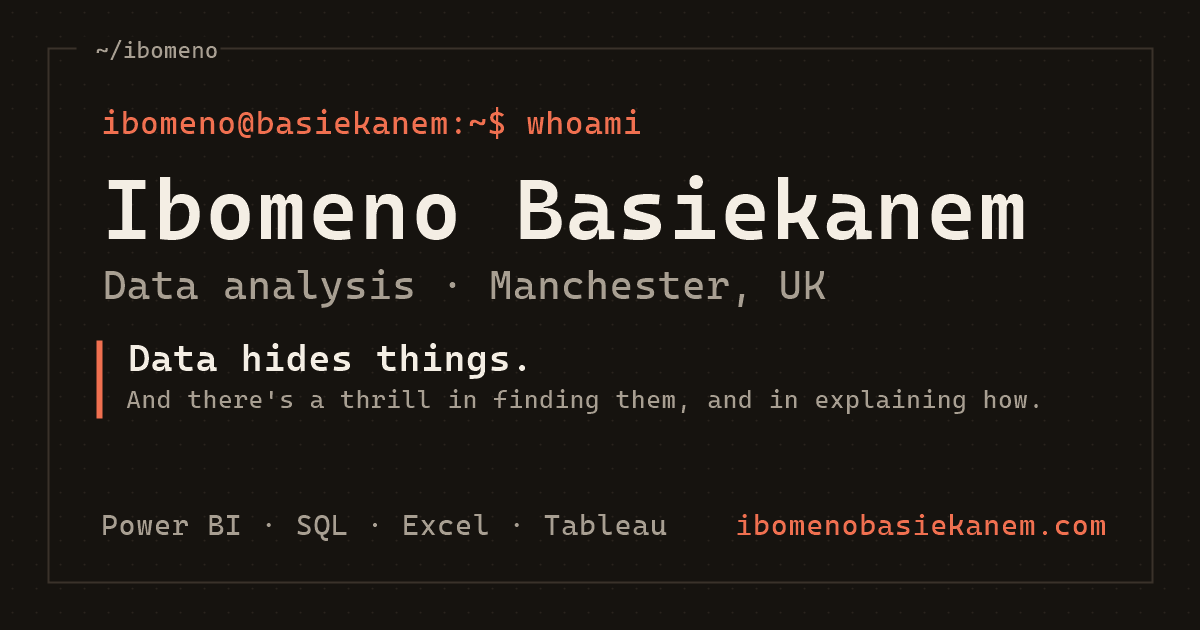
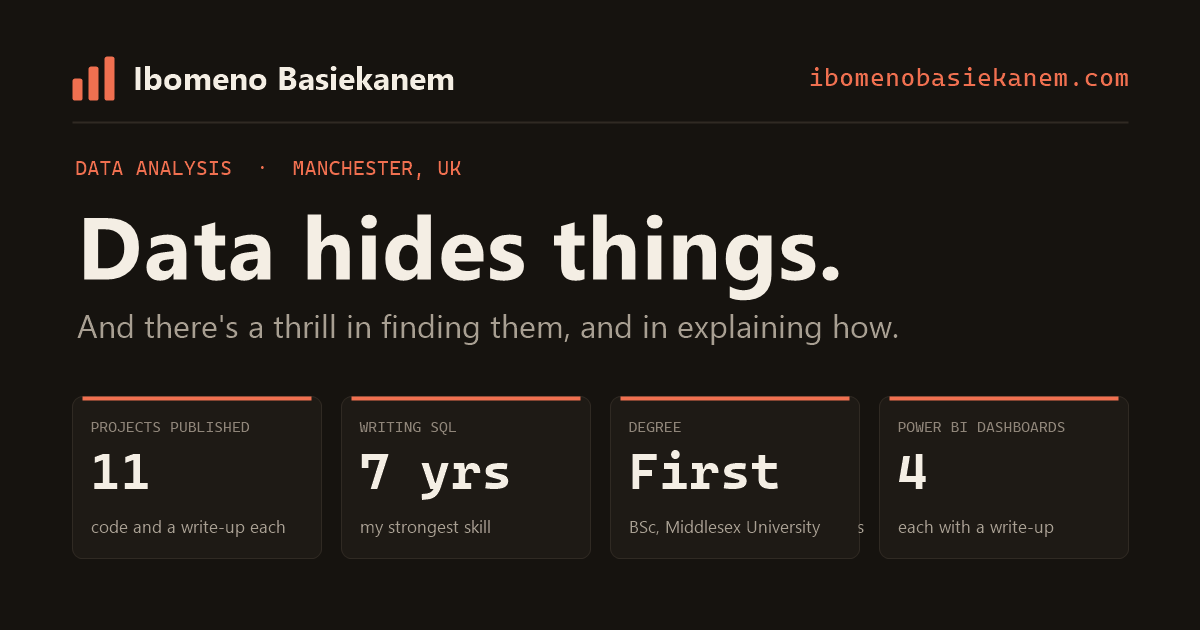
Link-preview image redrawn in the dashboard style

diff --git a/index.html b/index.html
@@ -17,12 +17,12 @@
     <meta property="og:locale" content="en_GB">
     <!-- Bump ?v= whenever og-image.png changes: LinkedIn caches the image by
          its URL and ignores a new file at the same address. -->
-    <meta property="og:image" content="https://ibomenobasiekanem.com/assets/og-image.png?v=5">
+    <meta property="og:image" content="https://ibomenobasiekanem.com/assets/og-image.png?v=6">
     <meta property="og:image:width" content="1200">
     <meta property="og:image:height" content="630">
     <meta property="og:image:alt" content="Ibomeno Basiekanem, data analysis in Manchester. Data hides things. And there's a thrill in finding them, and in explaining how.">
     <meta name="twitter:card" content="summary_large_image">
-    <meta name="twitter:image" content="https://ibomenobasiekanem.com/assets/og-image.png?v=5">
+    <meta name="twitter:image" content="https://ibomenobasiekanem.com/assets/og-image.png?v=6">
 
     <meta name="theme-color" content="#16130f" media="(prefers-color-scheme: dark)">
     <meta name="theme-color" content="#faf7f0" media="(prefers-color-scheme: light)">
